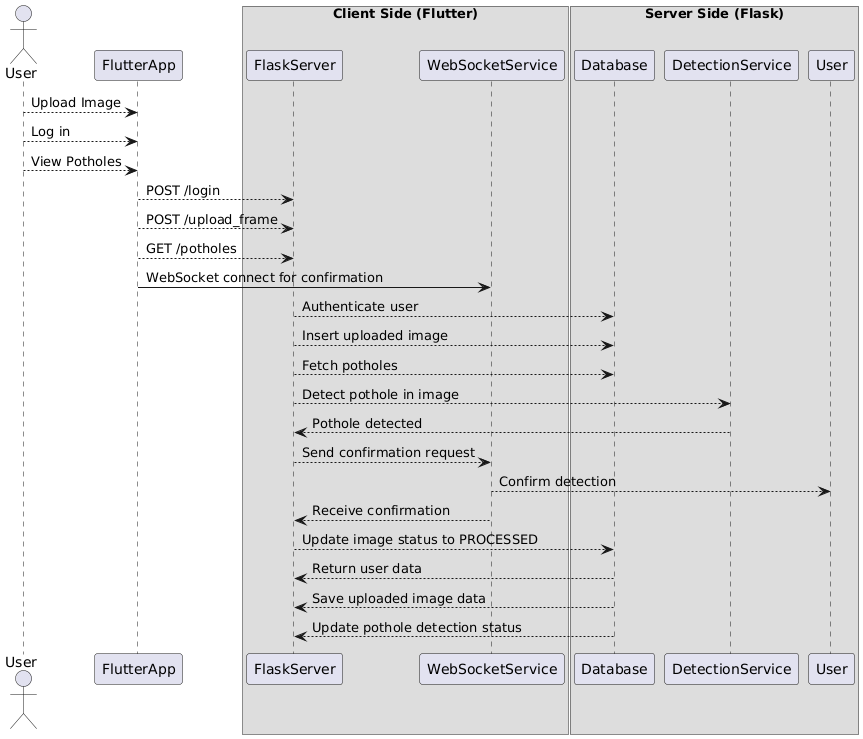
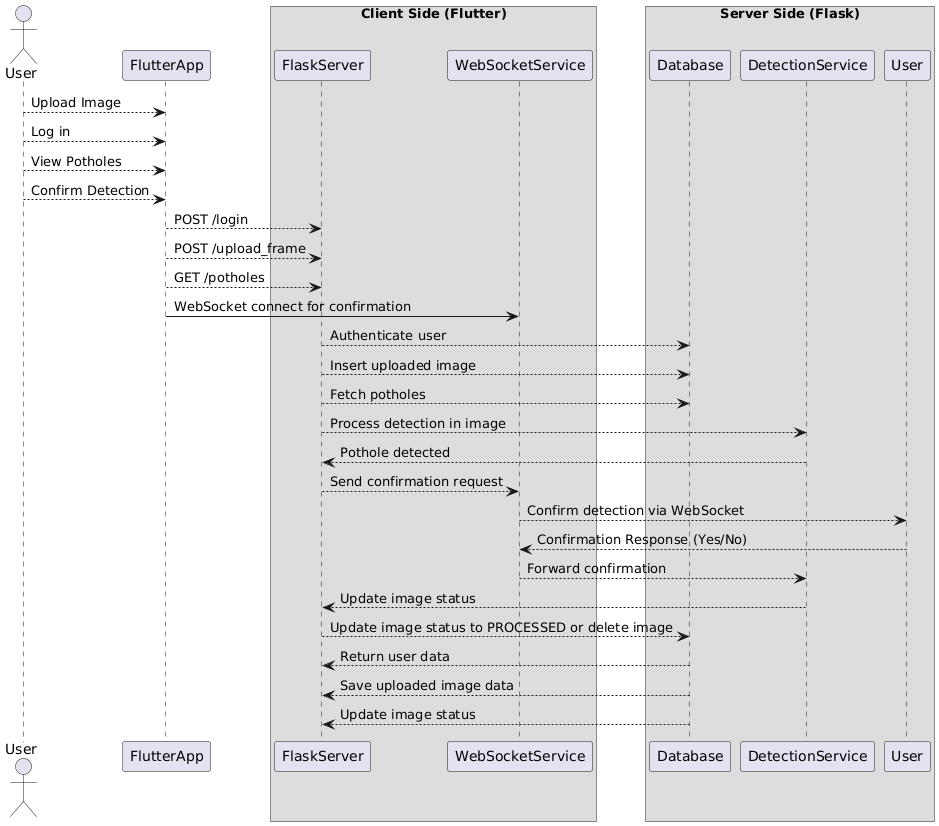
confirmation bugfixes

diff --git a/services/detection_service.py b/services/detection_service.py
@@ -1,7 +1,10 @@
 import os
 import time
+import json
 from db.db_connection import Database
 from services.image_service import ImageService
+from services.websocket_service import send_detection_confirmation  # Updated import
+from services.websocket_state import confirmation_lock, pending_confirmations  # Import WebSocket state
 
 class DetectionService:
     @staticmethod
@@ -18,31 +21,56 @@ class DetectionService:
         detection_name_result = cursor.fetchone()
         detection_name = detection_name_result[0] if detection_name_result else "Unknown Detection"
 
-        # Simulate the detection confirmation process
+        cursor.close()
+
+        # Request user confirmation via WebSocket
         if DetectionService.send_detection_confirmation(filename, detection_name):
             DetectionService.confirm_detection(image_id, filename)
         else:
             DetectionService.delete_image_and_record(image_id, filename)
 
-        cursor.close()
         conn.close()
 
     @staticmethod
     def send_detection_confirmation(filename, detection_name):
-        # In a real-world scenario, you'd send a confirmation request to a client via WebSocket.
-        # Here we'll simulate the confirmation process.
-
+        """
+        Send a WebSocket confirmation request to the client.
+        The confirmation is handled by the WebSocket connection.
+        """
         print(f"Waiting for user confirmation for {filename} (Detection: {detection_name})")
 
-        # Simulate a user response (for example, user confirms or rejects detection)
-        # You could replace this with actual WebSocket logic in a real-world scenario.
-        # For now, we'll simulate the user confirming the detection after a short delay.
-        time.sleep(2)  # Simulate waiting for user confirmation
-        confirmed = True  # Simulate that the user confirmed the detection
-        return confirmed
+        # Send WebSocket message to the client
+        with confirmation_lock:
+            pending_confirmations[filename] = None
+
+        send_detection_confirmation(filename, detection_name)
+
+        # Wait for the confirmation or timeout
+        timeout_seconds = 120
+        start_time = time.time()
+
+        while True:
+            with confirmation_lock:
+                user_response = pending_confirmations.get(filename)
+
+            if user_response is not None:
+                with confirmation_lock:
+                    del pending_confirmations[filename]
+                return user_response
+
+            if time.time() - start_time > timeout_seconds:
+                with confirmation_lock:
+                    del pending_confirmations[filename]
+                print(f"Timeout waiting for confirmation of {filename}")
+                return False
+
+            time.sleep(1)
 
     @staticmethod
     def confirm_detection(image_id, filename):
+        """
+        Mark the image as confirmed and move it to the confirmed folder.
+        """
         conn = Database.get_connection()
         if conn:
             cursor = conn.cursor()
@@ -68,6 +96,9 @@ class DetectionService:
 
     @staticmethod
     def delete_image_and_record(image_id, filename):
+        """
+        Delete the image and its associated database record if detection is rejected.
+        """
         try:
             conn = Database.get_connection()
             if conn:

diff --git a/monitoring.py b/monitoring.py
@@ -3,23 +3,42 @@ from db.db_connection import Database
 from services.detection_service import DetectionService
 
 def monitor_and_confirm_detections():
+    """
+    This function continuously monitors the database for images
+    with a status of "DETECTED" (status_id = 2) and processes them for confirmation.
+    """
     while True:
-        conn = Database.get_connection()
-        if not conn:
-            time.sleep(5)
-            continue
-        
-        cursor = conn.cursor()
-        cursor.execute("""
-            SELECT uploaded_image_id, uploaded_image_file_name, uploaded_image_detection_id
-            FROM uploaded_image WHERE uploaded_image_status_id = 2
-        """)
-        detections = cursor.fetchall()
-        
-        for detection in detections:
-            image_id, filename, detection_id = detection
-            DetectionService.process_detection(image_id, filename, detection_id)
-        
-        cursor.close()
-        conn.close()
-        time.sleep(3)
+        try:
+            # Establish a connection to the database
+            conn = Database.get_connection()
+            if not conn:
+                print("Database connection failed. Retrying in 5 seconds...")
+                time.sleep(5)
+                continue
+            
+            cursor = conn.cursor()
+
+            # Fetch images with status "DETECTED" (status_id = 2)
+            cursor.execute("""
+                SELECT uploaded_image_id, uploaded_image_file_name, uploaded_image_detection_id
+                FROM uploaded_image 
+                WHERE uploaded_image_status_id = 2
+            """)
+            detections = cursor.fetchall()
+
+            # Process each detection
+            for detection in detections:
+                image_id, filename, detection_id = detection
+                print(f"Processing detection for image {filename} (ID: {image_id})")
+                
+                # Use the refactored DetectionService to process the detection
+                DetectionService.process_detection(image_id, filename, detection_id)
+
+            cursor.close()
+            conn.close()
+
+        except Exception as e:
+            print(f"Error in monitoring detections: {e}")
+        finally:
+            # Wait for 3 seconds before the next iteration
+            time.sleep(3)

diff --git a/sockets/confirmation_socket.py b/sockets/confirmation_socket.py
@@ -1,18 +1,17 @@
 import json
-from threading import Lock
 from flask_sock import Sock
+from services.websocket_state import clients, confirmation_lock, pending_confirmations
+from db.db_connection import Database
+from services.detection_service import DetectionService  # Import DetectionService
 
 sock = Sock()
-
-clients = {}
-pending_confirmations = {}
-confirmation_lock = Lock()
 
 @sock.route('/confirm')
 def confirm(ws):
     client_id = id(ws)
     clients[client_id] = ws
 
+    print("Client connected via WebSocket")
     try:
         while True:
             message = ws.receive()
@@ -21,15 +20,41 @@ def confirm(ws):
                 filename = data.get('filename')
                 confirmed = data.get('confirmed', False)
 
+                # Handle confirmation response from the client
                 handle_user_confirmation({'filename': filename, 'confirmed': confirmed})
 
+                print(f"Received message: {message}")
     except Exception as e:
         print(f"WebSocket error: {e}")
     finally:
+        print("Client disconnected")
         del clients[client_id]
 
 def handle_user_confirmation(data):
+    """
+    Handle user confirmation when received via WebSocket.
+    """
     filename = data.get('filename')
     confirmed = data.get('confirmed', False)
+
     with confirmation_lock:
-        pending_confirmations[filename] = confirmed
+        if filename in pending_confirmations:
+            pending_confirmations[filename] = confirmed
+            if confirmed:
+                print(f"User confirmed detection for {filename}")
+                conn = Database.get_connection()
+                if conn:
+                    cursor = conn.cursor()
+                    cursor.execute("""
+                        SELECT uploaded_image_id FROM uploaded_image WHERE uploaded_image_file_name = %s
+                    """, (filename,))
+                    result = cursor.fetchone()
+
+                    if result:
+                        image_id = result[0]
+                        DetectionService.confirm_detection(image_id, filename)
+
+                    cursor.close()
+                    conn.close()
+            else:
+                print(f"User did not confirm detection for {filename}")

diff --git a/services/websocket_service.py b/services/websocket_service.py
@@ -1,0 +1,25 @@
+import json
+from services.websocket_state import clients, confirmation_lock, pending_confirmations
+
+def send_detection_confirmation(filename, detection_name):
+    """
+    Send a detection confirmation request to all connected WebSocket clients.
+    """
+    print(f"Sending WebSocket message to clients: {filename} ({detection_name})")
+
+    # Lock for thread safety
+    with confirmation_lock:
+        pending_confirmations[filename] = None
+
+    ws_message = json.dumps({
+        'type': 'confirmation_request',
+        'filename': filename,
+        'detection_name': detection_name
+    })
+
+    for client_id, ws in list(clients.items()):
+        try:
+            ws.send(ws_message)
+        except Exception as e:
+            print(f"Failed to send to client {client_id}: {e}")
+            del clients[client_id]

diff --git a/services/websocket_state.py b/services/websocket_state.py
@@ -1,0 +1,6 @@
+from threading import Lock
+
+# WebSocket state
+clients = {}
+pending_confirmations = {}
+confirmation_lock = Lock()
